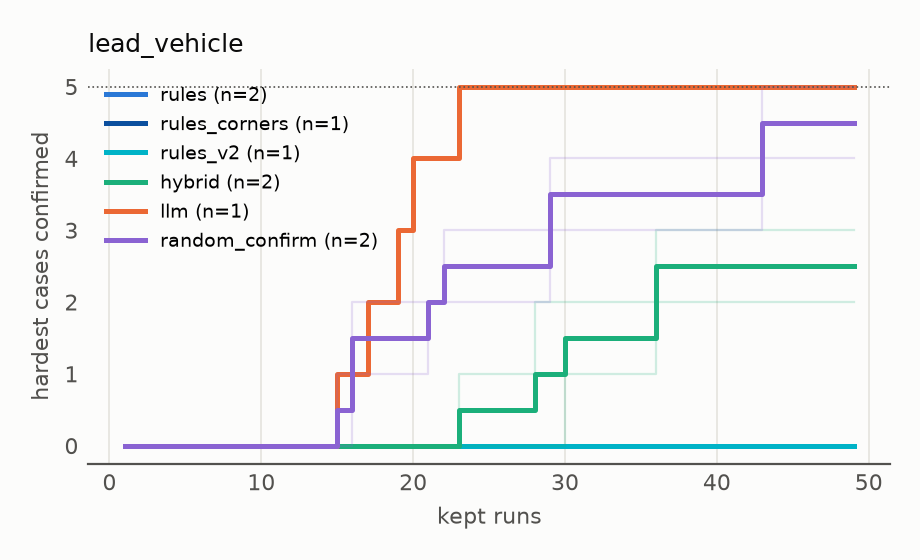
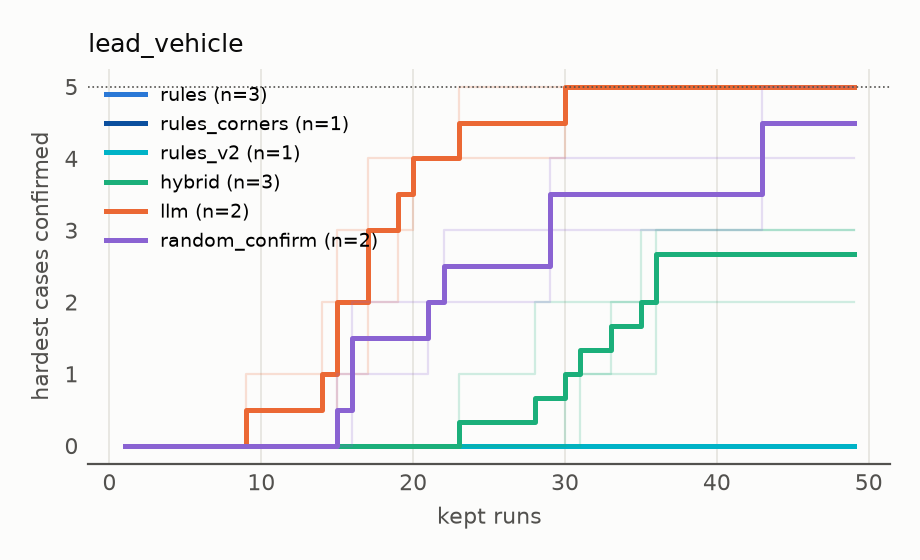
Lead vehicle llm replicate 3: 5 of 5 at 30 runs

diff --git a/METHODS.md b/METHODS.md
@@ -20,11 +20,11 @@ k most challenging scenes (1 = a crash), whether or not it was confirmed.
 | intersection_ego_speed | hybrid | 1 | 49 | 0 | 49 | 49 | 2 of 5 | 0.626 | 9 | 123.1 |
 | intersection_ego_speed | llm | 1 | 49 | 0 | 49 | 49 | 2 of 5 | 0.599 | 8 | 117.7 |
 | intersection_ego_speed | random_confirm | 1 | 49 | 0 | 49 | 49 | 2 of 5 | 0.606 | 12 | 0.0 |
-| lead_vehicle | rules | 2 | 49, 49 | 0 | 49, 49 | 49.0 | 0, 0 of 5 | 0.846, 0.851 | 0, 0 | 0.0, 0.0 |
+| lead_vehicle | rules | 3 | 49, 49, 49 | 0 | 49, 49, 49 | 49 | 0, 0, 0 of 5 | 0.846, 0.851, 0.854 | 0, 0, 0 | 0.0, 0.0, 0.0 |
 | lead_vehicle | rules_corners | 1 | 49 | 0 | 49 | 49 | 0 of 5 | 0.853 | 0 | 0.0 |
 | lead_vehicle | rules_v2 | 1 | 49 | 0 | 49 | 49 | 0 of 5 | 0.891 | 1 | 0.0 |
-| lead_vehicle | hybrid | 2 | 49, 49 | 0 | 49, 49 | 49.0 | 2, 3 of 5 | 0.92, 0.952 | 7, 10 | 110.8, 100.4 |
-| lead_vehicle | llm | 1 | 28 | 1 | 23 | 23 | 5 of 5 | 1.0 | 21 | 59.8 |
+| lead_vehicle | hybrid | 3 | 49, 49, 49 | 0 | 49, 49, 49 | 49 | 2, 3, 3 of 5 | 0.92, 0.952, 0.955 | 7, 10, 9 | 110.8, 100.4, 101.3 |
+| lead_vehicle | llm | 2 | 28, 35 | 2 | 23, 30 | 26.5 | 5, 5 of 5 | 1.0, 1.0 | 21, 23 | 59.8, 75.8 |
 | lead_vehicle | random_confirm | 2 | 49, 49 | 1 | 43, 49 | 46.0 | 5, 4 of 5 | 1.0, 0.978 | 17, 17 | 0.0, 0.0 |
 | pedestrian_crossing | rules | 1 | 49 | 0 | 49 | 49 | 0 of 5 | 0.643 | 0 | 0.0 |
 | pedestrian_crossing | hybrid | 1 | 49 | 0 | 49 | 49 | 0 of 5 | 0.636 | 0 | 90.1 |

diff --git a/BACK.md b/BACK.md
@@ -50,9 +50,9 @@ by day is in `LOG.md`. Live results: `research/simgate serve` (Results tab),
    far, `METHODS.md`): pedestrian x ego speed (2 knobs, three replicates
    each, complete) hybrid 24/28/24, rules 25/25/25, random + confirmation
    31/32/32, llm 28/40/37 runs to the goal; lead
-   vehicle (3 knobs, failures at the extremes) llm 5 of 5 by run 23 (one
-   clean replicate), random + confirmation 5 by 43 and 4 of 5, hybrid 2 and
-   3 of 5, rules 0 and 0; cut-in (clean replicates only) hybrid 5 of 5 by
+   vehicle (3 knobs, failures at the extremes) llm 5 of 5 by runs 23 and
+   30 (two clean replicates), random + confirmation 5 by 43 and 4 of 5,
+   hybrid 2, 3 and 3 of 5, rules 0, 0 and 0; cut-in (clean replicates only) hybrid 5 of 5 by
    run 32, random + confirmation 3 of 5, rules 2 of 5 in 54. Plain random
    never confirms anything. Where the space is small every method does
    about as well; where it is large, the Claude methods find the hardest

diff --git a/FACTS.md b/FACTS.md
@@ -554,6 +554,17 @@ space (2 knobs, 10 scenes) the rule candidates, alone or chosen by Claude,
 are the fastest and most consistent; the free Claude proposer is the
 slowest and most variable.
 
+### Lead vehicle, replicates so far (10 Oct)
+
+Hardest 5 confirmed in 49 runs (llm: runs to the goal): llm 5 of 5 at 23
+and at 30 (both clean replicates; replicate 1 stopped on the broad count,
+left out); random + confirmation 5 at 43, then 4; hybrid 2, 3, 3; rules 0,
+0, 0 (also rules + corners 0, rules_v2 0). In this larger space (3 knobs,
+failures at the knob extremes) the free Claude proposer is fastest and
+most consistent; the rule candidates, alone or under Claude (hybrid), stay
+near the recorded setting and miss the extremes. Random + confirmation
+replicate 3 running.
+
 ### Replicates under replayed traffic are nearly deterministic (9 Oct)
 
 pedestrian x ego speed, rules, three replicates with different run seeds
